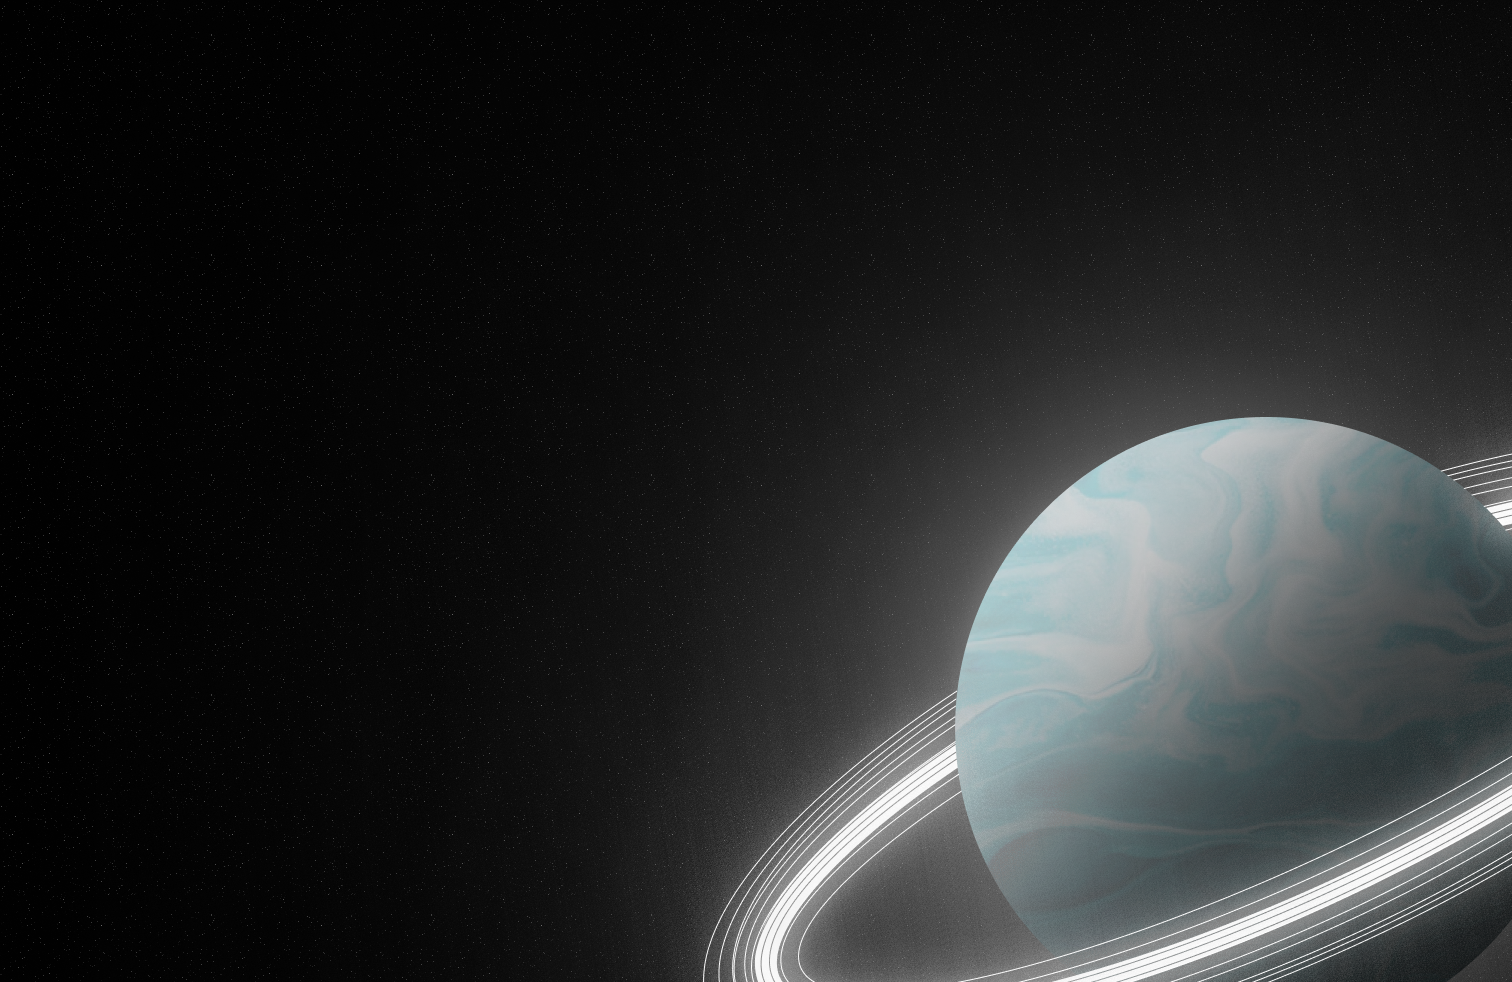
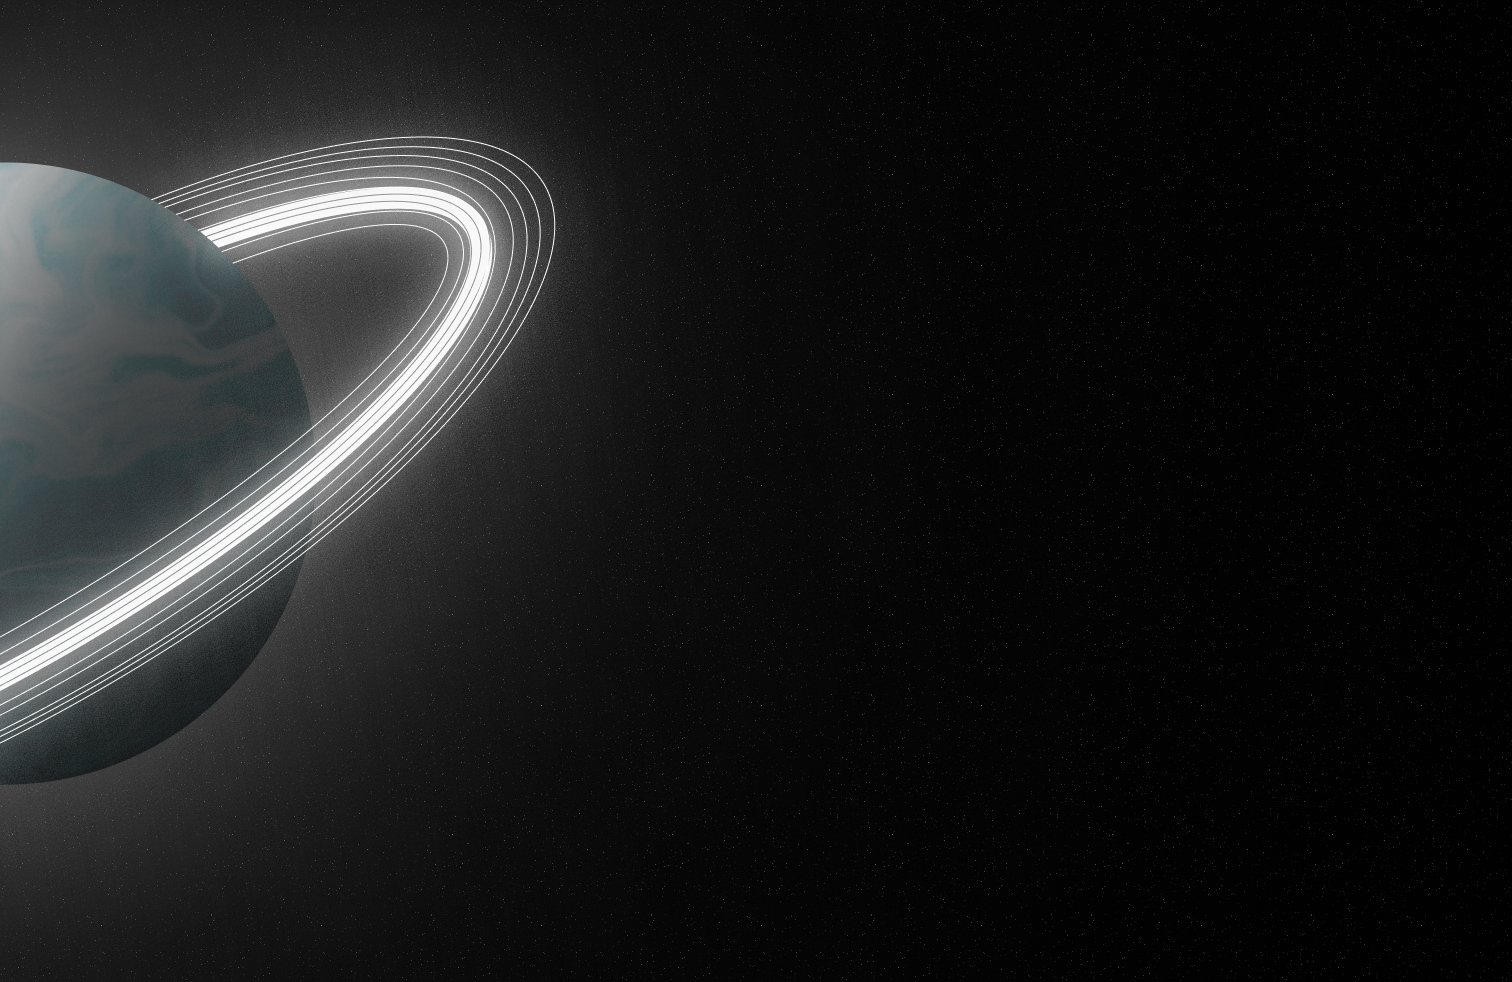
add changes

diff --git a/index.html b/index.html
@@ -12,13 +12,18 @@
 </head>
 
 <body class="">
-    <div class="w-[1512px] h-[915px] relative" style="background-image: url('./assets/background_img_home.svg'); ">
+    <div class="w-[1512px] h-[915px] relative" style="background-image: url('./assets/background_img_home.jpg'); ">
         <div class="w-[798px] h-[26px] left-[632px] top-[66px] absolute">
-            <div class="left-0 top-0 absolute text-white text-[17px] font-extralight "><a href="index.html">Home</a></div>
-            <div class="left-[144px] top-0 absolute text-white text-[17px] font-extralight "><a href="about_us.html">About Us</a></div>
-            <div class="left-[320px] top-0 absolute text-white text-[17px] font-extralight "><a href="web_design.html">Web Design</a></div>
-            <div class="left-[525px] top-0 absolute text-white text-[17px] font-extralight "><a href="services.html">Services</a></div>
-            <div class="left-[690px] top-0 absolute text-white text-[17px] font-extralight "><a href="contact_us.html">Contact Us</a></div>
+            <div class="left-0 top-0 absolute text-white text-[17px] font-extralight "><a href="index.html">Home</a>
+            </div>
+            <div class="left-[144px] top-0 absolute text-white text-[17px] font-extralight "><a
+                    href="about_us.html">About Us</a></div>
+            <div class="left-[320px] top-0 absolute text-white text-[17px] font-extralight "><a
+                    href="web_design.html">Web Design</a></div>
+            <div class="left-[525px] top-0 absolute text-white text-[17px] font-extralight "><a
+                    href="services.html">Services</a></div>
+            <div class="left-[690px] top-0 absolute text-white text-[17px] font-extralight "><a
+                    href="contact_us.html">Contact Us</a></div>
         </div>
         <img class="w-[85px] h-[57px] left-[80px] top-[46px] absolute" src="./assets/rajbrinder toor 1.svg" />
         <div class="left-[165px] top-[336px] absolute">
@@ -88,7 +93,7 @@
     </section>
     <!-- printing services we provide -->
     <section>
-        
+
         <div class="w-[1512px] h-[2702px] relative" style="background-image: url('./assets/spotted_background.svg');">
             <div class="w-[1396.13px] h-[2302.54px] left-[220px] top-[200px] absolute">
             </div>
@@ -293,8 +298,8 @@
                             <div class="justify-start items-start gap-[9.60px] inline-flex">
                                 <div class="w-[99px] h-10"><span
                                         style="text-gray-800 text-sm font-bold font-['Poppins']">Nazmul
-                                        Karim</span><span style="text-gray-800 text-sm font-normal font-['Poppins']">
-                                    </span><span style="text-neutral-500 text-sm font-normal font-['Poppins']">CEO
+                                        Karim</span><span class="text-gray-800 text-sm font-normal font-['Poppins']">
+                                    </span><span class="text-neutral-500 text-sm font-normal font-['Poppins']">CEO
                                     </span></div>
                             </div>
                             <div class="w-[77.78px] h-[12.48px] relative flex">
@@ -327,8 +332,8 @@
                             <div class="justify-start items-start gap-[9.60px] inline-flex">
                                 <div class="w-[99px] h-10"><span
                                         style="text-gray-800 text-sm font-bold font-['Poppins']">Nazmul
-                                        Karim</span><span style="text-gray-800 text-sm font-normal font-['Poppins']">
-                                    </span><span style="text-neutral-500 text-sm font-normal font-['Poppins']">CEO
+                                        Karim</span><span class="text-gray-800 text-sm font-normal font-['Poppins']">
+                                    </span><span class="text-neutral-500 text-sm font-normal font-['Poppins']">CEO
                                     </span></div>
                             </div>
                             <div class="w-[77.78px] h-[12.48px] relative flex">
@@ -361,8 +366,8 @@
                             <div class="justify-start items-start gap-[9.60px] inline-flex">
                                 <div class="w-[99px] h-10"><span
                                         style="text-gray-800 text-sm font-bold font-['Poppins']">Nazmul
-                                        Karim</span><span style="text-gray-800 text-sm font-normal font-['Poppins']">
-                                    </span><span style="text-neutral-500 text-sm font-normal font-['Poppins']">CEO
+                                        Karim</span><span class="text-gray-800 text-sm font-normal font-['Poppins']">
+                                    </span><span class="text-neutral-500 text-sm font-normal font-['Poppins']">CEO
                                     </span></div>
                             </div>
                             <div class="w-[77.78px] h-[12.48px] relative flex">
@@ -395,8 +400,8 @@
                             <div class="justify-start items-start gap-[9.60px] inline-flex">
                                 <div class="w-[99px] h-10"><span
                                         style="text-gray-800 text-sm font-bold font-['Poppins']">Nazmul
-                                        Karim</span><span style="text-gray-800 text-sm font-normal font-['Poppins']">
-                                    </span><span style="text-neutral-500 text-sm font-normal font-['Poppins']">CEO
+                                        Karim</span><span class="text-gray-800 text-sm font-normal font-['Poppins']">
+                                    </span><span class="text-neutral-500 text-sm font-normal font-['Poppins']">CEO
                                     </span></div>
                             </div>
                             <div class="w-[77.78px] h-[12.48px] relative flex">
@@ -429,8 +434,8 @@
                             <div class="justify-start items-start gap-[9.60px] inline-flex">
                                 <div class="w-[99px] h-10"><span
                                         style="text-gray-800 text-sm font-bold font-['Poppins']">Nazmul
-                                        Karim</span><span style="text-gray-800 text-sm font-normal font-['Poppins']">
-                                    </span><span style="text-neutral-500 text-sm font-normal font-['Poppins']">CEO
+                                        Karim</span><span class="text-gray-800 text-sm font-normal font-['Poppins']">
+                                    </span><span class="text-neutral-500 text-sm font-normal font-['Poppins']">CEO
                                     </span></div>
                             </div>
                             <div class="w-[77.78px] h-[12.48px] relative flex">
@@ -453,83 +458,89 @@
 
         <div class="w-[1512px] h-[2694px] relative"
             style="background-image: url('./assets/footer_background_home.svg');">
-            <div
-                class="h-[174px] px-[52px] py-[35px] left-[220px] top-[277px] absolute bg-stone-100 rounded-[10px] flex-col justify-start items-start inline-flex">
-                <div class="flex-col justify-start items-start gap-4 flex">
-                    <div class="justify-center items-center gap-[34px] inline-flex">
-                        <div class="w-[896px] text-black text-3xl font-extrabold font-['Inter']">What is UX design?
-                        </div>
-                        <div class="origin-top-left -rotate-180 w-10 h-10 relative">
-                            <div
-                                class="w-10 h-10 left-0 top-0 absolute origin-top-left -rotate-180 rounded-[100px] border-2 border-stone-950 flex items-center justify-center">
-                                <img src="./assets/arrow_up.svg" alt="">
+            <div>
+                <!-- <div
+                    class="h-[174px] px-[52px] py-[35px] left-[220px] top-[277px] absolute bg-stone-100 rounded-[10px] flex-col justify-start items-start inline-flex">
+                    <div class="flex-col justify-start items-start gap-4 flex">
+                        <div class="justify-center items-center gap-[34px] inline-flex">
+                            <div class="w-[896px] text-black text-3xl font-extrabold font-['Inter']">What is UX design?
+                            </div>
+                            <div class="origin-top-left -rotate-180 w-10 h-10 relative">
+                                <div
+                                    class="w-10 h-10 left-0 top-0 absolute origin-top-left -rotate-180 rounded-[100px] border-2 border-stone-950 flex items-center justify-center">
+                                    <img src="./assets/arrow_up.svg" alt="">
+                                </div>
                             </div>
                         </div>
-                    </div>
-                    <div class="w-[989px] text-black text-xl font-normal font-['Inter']">UX design stands for User
-                        Experience design. It is the process of designing digital or physical products that are easy to
-                        use, intuitive, and enjoyable for the user.</div>
-                </div>
-            </div>
-            <div
-                class="px-[52px] py-[35px] left-[219px] top-[500px] absolute bg-stone-100 rounded-[10px] flex-col justify-start items-start inline-flex">
-                <div class="flex-col justify-start items-start gap-4 flex">
-                    <div class="justify-center items-center gap-[34px] inline-flex">
-                        <div class="w-[896px] text-black text-3xl font-extrabold font-['Inter']">What are the key
-                            principles of UX design?</div>
-                        <div class="w-10 h-10 relative">
-                            <div
-                                class="w-10 h-10 left-0 top-0 absolute rounded-[100px] border-2 border-stone-950 flex items-center justify-center">
-                                <img src="./assets/arrow_down.svg" alt="">
-                            </div>
-                        </div>
+                        <div class="w-[989px] text-black text-xl font-normal font-['Inter']">UX design stands for User
+                            Experience design. It is the process of designing digital or physical products that are easy
+                            to
+                            use, intuitive, and enjoyable for the user.</div>
                     </div>
                 </div>
-            </div>
-            <div
-                class="px-[52px] py-[35px] left-[219px] top-[818px] absolute bg-stone-100 rounded-[10px] flex-col justify-start items-start inline-flex">
-                <div class="flex-col justify-start items-start gap-4 flex">
-                    <div class="justify-center items-center gap-[34px] inline-flex">
-                        <div class="w-[896px] text-black text-3xl font-extrabold font-['Inter']">What is the difference
-                            between UX and UI design?</div>
-                        <div class="w-10 h-10 relative">
-                            <div
-                                class="w-10 h-10 left-0 top-0 absolute rounded-[100px] border-2 border-stone-950 flex items-center justify-center">
-                                <img src="./assets/arrow_down.svg" alt="">
+                <div
+                    class="px-[52px] py-[35px] left-[219px] top-[500px] absolute bg-stone-100 rounded-[10px] flex-col justify-start items-start inline-flex">
+                    <div class="flex-col justify-start items-start gap-4 flex">
+                        <div class="justify-center items-center gap-[34px] inline-flex">
+                            <div class="w-[896px] text-black text-3xl font-extrabold font-['Inter']">What are the key
+                                principles of UX design?</div>
+                            <div class="w-10 h-10 relative">
+                                <div
+                                    class="w-10 h-10 left-0 top-0 absolute rounded-[100px] border-2 border-stone-950 flex items-center justify-center">
+                                    <img src="./assets/arrow_down.svg" alt="">
+                                </div>
                             </div>
                         </div>
                     </div>
                 </div>
-            </div>
-            <div
-                class="px-[52px] py-[35px] left-[219px] top-[659px] absolute bg-stone-100 rounded-[10px] flex-col justify-start items-start inline-flex">
-                <div class="flex-col justify-start items-start gap-4 flex">
-                    <div class="justify-center items-center gap-[34px] inline-flex">
-                        <div class="w-[896px] text-black text-3xl font-extrabold font-['Inter']">What is a wireframe?
-                        </div>
-                        <div class="origin-top-left -rotate-180 w-10 h-10 relative">
-                            <div
-                                class="w-10 h-10 left-0 top-0 absolute origin-top-left -rotate-180 rounded-[100px] border-2 border-stone-950 flex items-center justify-center">
-                                <img src="./assets/arrow_down.svg" alt="">
+                <div
+                    class="px-[52px] py-[35px] left-[219px] top-[818px] absolute bg-stone-100 rounded-[10px] flex-col justify-start items-start inline-flex">
+                    <div class="flex-col justify-start items-start gap-4 flex">
+                        <div class="justify-center items-center gap-[34px] inline-flex">
+                            <div class="w-[896px] text-black text-3xl font-extrabold font-['Inter']">What is the
+                                difference
+                                between UX and UI design?</div>
+                            <div class="w-10 h-10 relative">
+                                <div
+                                    class="w-10 h-10 left-0 top-0 absolute rounded-[100px] border-2 border-stone-950 flex items-center justify-center">
+                                    <img src="./assets/arrow_down.svg" alt="">
+                                </div>
                             </div>
                         </div>
                     </div>
                 </div>
-            </div>
-            <div
-                class="px-[52px] py-[35px] left-[219px] top-[977px] absolute bg-stone-100 rounded-[10px] flex-col justify-start items-start inline-flex">
-                <div class="flex-col justify-start items-start gap-4 flex">
-                    <div class="justify-center items-center gap-[34px] inline-flex">
-                        <div class="w-[896px] text-black text-3xl font-extrabold font-['Inter']">What is user testing?
-                        </div>
-                        <div class="w-10 h-10 relative">
-                            <div
-                                class="w-10 h-10 left-0 top-0 absolute rounded-[100px] border-2 border-stone-950 flex items-center justify-center">
-                                <img src="./assets/arrow_down.svg" alt="">
+                <div
+                    class="px-[52px] py-[35px] left-[219px] top-[659px] absolute bg-stone-100 rounded-[10px] flex-col justify-start items-start inline-flex">
+                    <div class="flex-col justify-start items-start gap-4 flex">
+                        <div class="justify-center items-center gap-[34px] inline-flex">
+                            <div class="w-[896px] text-black text-3xl font-extrabold font-['Inter']">What is a
+                                wireframe?
+                            </div>
+                            <div class="origin-top-left -rotate-180 w-10 h-10 relative">
+                                <div
+                                    class="w-10 h-10 left-0 top-0 absolute origin-top-left -rotate-180 rounded-[100px] border-2 border-stone-950 flex items-center justify-center">
+                                    <img src="./assets/arrow_down.svg" alt="">
+                                </div>
                             </div>
                         </div>
                     </div>
                 </div>
+                <div
+                    class="px-[52px] py-[35px] left-[219px] top-[977px] absolute bg-stone-100 rounded-[10px] flex-col justify-start items-start inline-flex">
+                    <div class="flex-col justify-start items-start gap-4 flex">
+                        <div class="justify-center items-center gap-[34px] inline-flex">
+                            <div class="w-[896px] text-black text-3xl font-extrabold font-['Inter']">What is user
+                                testing?
+                            </div>
+                            <div class="w-10 h-10 relative">
+                                <div
+                                    class="w-10 h-10 left-0 top-0 absolute rounded-[100px] border-2 border-stone-950 flex items-center justify-center">
+                                    <img src="./assets/arrow_down.svg" alt="">
+                                </div>
+                            </div>
+                        </div>
+                    </div>
+                </div> -->
             </div>
             <div class="w-[392px] left-[80px] top-[2480px] absolute text-white text-[15px] font-medium font-['Inter']">
                 Lorem Ipsum is simply dummy text of the printing and typesetting industry. Lorem Ipsum has been the
@@ -544,14 +555,18 @@
                 Enter Email For News Letter</div>
             <div class="h-[198px] left-[653px] top-[2331px] absolute">
                 <div class="w-[89px] h-[198px] left-0 top-0 absolute">
-                    <div class="left-0 top-0 absolute text-white text-xl font-medium font-['Inter']"><a href="index.html">Home</a></div>
-                    <div class="left-0 top-[58px] absolute text-white text-xl font-medium font-['Inter']"><a href="about_us.html">About Us</a></div>
-                    <div class="left-0 top-[116px] absolute text-white text-xl font-medium font-['Inter']"><a href="services.html">Services</a> 
+                    <div class="left-0 top-0 absolute text-white text-xl font-medium font-['Inter']"><a
+                            href="index.html">Home</a></div>
+                    <div class="left-0 top-[58px] absolute text-white text-xl font-medium font-['Inter']"><a
+                            href="about_us.html">About Us</a></div>
+                    <div class="left-0 top-[116px] absolute text-white text-xl font-medium font-['Inter']"><a
+                            href="services.html">Services</a>
                     </div>
                     <div class="left-0 top-[174px] absolute text-white text-xl font-medium font-['Inter']">Help</div>
                 </div>
                 <div class="w-[127px] h-[198px] left-[200px] top-0 absolute">
-                    <div class="left-0 top-0 absolute text-white text-xl font-medium font-['Inter']"><a href="contact_us.html">Contact Us</a></div>
+                    <div class="left-0 top-0 absolute text-white text-xl font-medium font-['Inter']"><a
+                            href="contact_us.html">Contact Us</a></div>
                     <div class="left-0 top-[58px] absolute text-white text-xl font-medium font-['Inter']">Our Team</div>
                     <div class="left-0 top-[116px] absolute text-white text-xl font-medium font-['Inter']">Terms of Use
                     </div>
